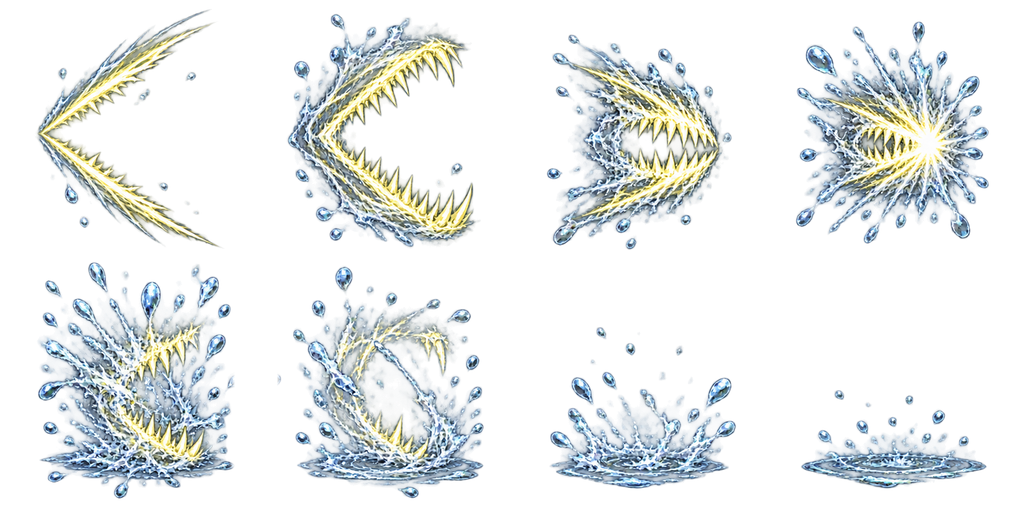
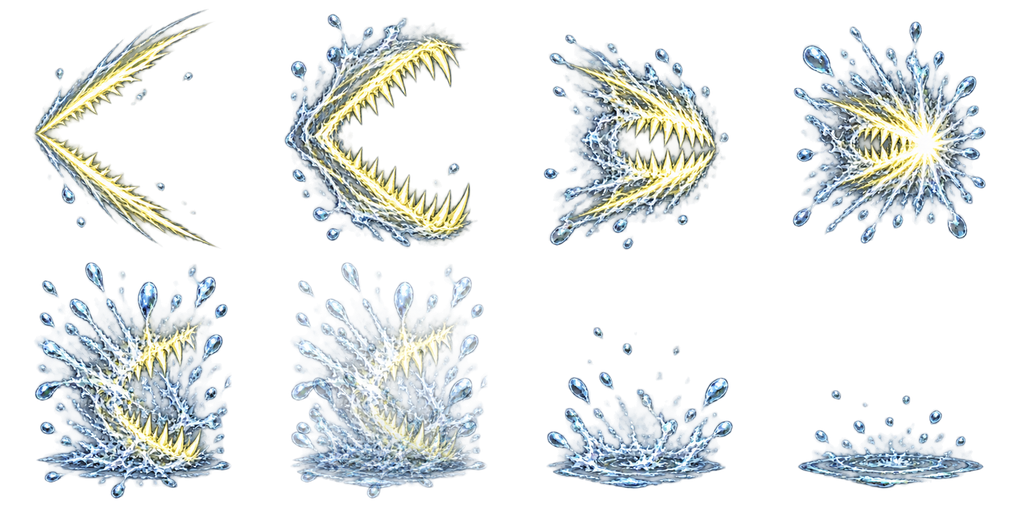
Harita 2 efekt düzeltmeleri: Lament dalgası uçar, Slinger fırlatır, Burrow gömülür, Eel Bite akışı
- Siren Lament: halka dalgası Siren'den hedefe uçar (arkasında sönen iki iz), sonra hedefte çarpar.
- Corsair Slinger Pitch Pot / Sling Stone: geri kaykılıp ileri savurma hareketi; çömlek yüksek yayla,
  taş alçak yayla hedefe uçar, yola göre döner; çömlek zemine inince yangın oynar (beyaz daire yok).
- Salt Crab Burrow: kum patlamasının doruğunda yengeç yarı yarıya kuma gömülür (aşağı kayma + kırpma,
  ayakta kum yığını), Fortified sürdükçe gömülü kalır, durum bitince çıkar.
- Weir Eel Bite: ters dönen 6. kare (çene şekli) kaynakta 5. ve 7. karenin karışımıyla yeniden kuruldu.
- Yeni ayarlar data/battle-layout.json > animation.mobVfx (fly, arc, flyArt, grow, echo, throw, bury);
  Harita 1 efektlerine dokunulmadı.

diff --git a/src/game/mob-vfx.ts b/src/game/mob-vfx.ts
@@ -217,6 +217,21 @@ export interface MobTune {
   single?: boolean;
   stretch?: number;
   originX?: number;
+  /**
+   * bolt: UÇAN MERMİ (Harita 2, Ömer 2026-10-25): sheet'in `flyFrame` karesi saldırandan hedefe `fly` ms'de uçar (`arc` px yay; `flyArt`: karedeki
+   * mermi eğimi, derece, uçuşta yolun teğetine döner; `grow`: başlangıç ölçeği, varışta 1; `echo`: arkasında sönen kopya sayısı = dalga izi),
+   * varınca sheet hedefte `flyFrom` karesinden oynar. `throw`: hazırlık halkası yerine fırlatma hareketi (geri kaykıl + ileri savur).
+   */
+  fly?: number;
+  flyFrame?: number;
+  flyFrom?: number;
+  arc?: number;
+  flyArt?: number;
+  grow?: number;
+  echo?: number;
+  throw?: boolean;
+  /** Burrow: Fortified görünürken birim bu oranda zemine gömülü durur (sprite aşağı kayar, alt kısmı kırpılır; buryDepth + BattleScene.refreshBadges). */
+  bury?: number;
 }
 const TUNE = layout.animation.mobVfx as unknown as { sizeMult?: number; speedMult?: number; stabilize: { minMass: number; maxShift: number }; skills: Record<string, MobTune> };
 const BOOST_ALPHA = 0.35; // ikinci ADD kopyanın şeffaflığı (soluk sanatı parlatır; açık zeminde yıkamaz)
@@ -235,6 +250,7 @@ const TRAIL_SIZE = 300; // iz sheet'inin ekran boyu (px)
 const TRAIL_ORIGIN: [number, number] = [0.84, 0.5]; // iz sheet'inin başı (alev ucu) sağda: aynalanınca saldıranın önünde
 const CAST_PEAK_MS = 130; // büyü ucunun okunduğu an (windUp'ın tepe noktası; bu anda cast pozu oturmuş)
 const FAST_RAIN_X = 0.55; // yağan okun yatay eğimi (dikey px başına)
+const BURY_HOLD_MS = 1500; // gömülen birim durum rozeti görünmeden en az bu kadar gömülü kalır (ms, k.slow ile)
 
 /**
  * Zemin eğimi (ekranda yatay / dikey px): hedef tahtanın yuva ızgarasında bir sıra aşağı inince x ne kadar kayar (data/battle-layout.json yuvaları).
@@ -348,8 +364,10 @@ function build(skillId: string, s0: MobVfxSpec): V2Vfx {
     const off: Pt = { x: tune.dx ?? 0, y: tune.dy ?? 0 };
     const travelF = Math.round((tune.travel ?? 0) * mult);
     const lag = tune.lag ?? 0;
-    const fall = tune.fall ?? 0;
-    const startF = fall ? 1 : 0; // yağan efektte çarpma sheet'i uçuş karesinden sonrasını oynar
+    const flyMs = s.mode === 'bolt' && tune.fly ? tune.fly : 0;
+    // `fall`: zamanlamadaki uçuş payı (yağan ok ya da uçan mermi; ikisi aynı skill'de olmaz)
+    const fall = tune.fall ?? flyMs;
+    const startF = flyMs ? Math.round((tune.flyFrom ?? 1) * mult) : fall ? 1 : 0; // uçuştan sonra çarpma sheet'i bu kareden oynar
     const hitT = impactMs(impactF - startF, fps); // sheet başlangıcından vuruş karesine (ms, yavaşlatılmadan)
     // kare hizalama: vuruş sonrası kareler vuruş karesinin yerine oturur; uçuş kareleri ağırlık merkezinden vuruş noktasına (yolu sprite yapar)
     const alignMode = tune.align ?? (s.at === 'ground' ? 'base' : 'core');
@@ -408,7 +426,10 @@ function build(skillId: string, s0: MobVfxSpec): V2Vfx {
         return [main, glow].filter((x): x is NonNullable<typeof x> => !!x);
       };
       let objs: Array<NonNullable<ReturnType<VfxKit['sheet']>>>;
-      if (from && fall) {
+      if (from && flyMs) {
+        flyShot(from, p, delay + lag);
+        objs = pair({ delay: delay + lag + flyMs, from: startF }, p);
+      } else if (from && fall) {
         // yağan efekt (Scatter Quarrels): uçuş karesi (0) yukarıdan hücreye iner, sonra çarpma kareleri o hücrede oynar
         const fl = pair({ frame: 0, keep: true, delay: delay + lag }, from);
         c.scene.tweens.add({ targets: fl, x: p.x, y: p.y, delay: k.slow(delay + lag), duration: k.slow(fall), ease: 'Quad.easeIn', onComplete: () => fl.forEach((o) => o.destroy()) });
@@ -435,6 +456,77 @@ function build(skillId: string, s0: MobVfxSpec): V2Vfx {
         flashAt(p, depth);
         c.scene.time.delayedCall(k.slow(HOLD_MS), () => {
           for (const o of objs) if (o?.active) o.anims.resume();
+        });
+      });
+    };
+    /**
+     * UÇAN MERMİ (tune.fly): `flyFrame` karesi (ağırlık merkezinden tutulur) saldırandan hedefe yay çizerek uçar, teğete döner; `echo` kopyası
+     * aynı yolda biraz geriden, sönük gelir (dalga izi). Varınca silinir: çarpma kareleri o anda hedefte başlar (play).
+     */
+    function flyShot(from: Pt, to: Pt, delay: number): void {
+      const fr = Math.round((tune.flyFrame ?? 0) * mult);
+      const an = k.sheetAnchors(c.scene, id, fr);
+      const o: [number, number] | undefined = an ? [an.core[0] / fw, an.core[1] / fh] : undefined;
+      const echoes = tune.echo ?? 0;
+      const opts = { size, flipX: flip, frame: fr, keep: true, delay, ...(o ? { origin: o } : {}) };
+      const parts: Array<{ spr: Phaser.GameObjects.Sprite; lagU: number; alpha: number }> = [];
+      for (let i = echoes; i >= 0; i--) {
+        const alpha = i ? 0.5 / i : 1;
+        const main = k.sheet(c.scene, id, from.x, from.y, { ...opts, depth: k.DEPTH + 1 - i * 0.01, alpha });
+        const glow = k.sheet(c.scene, id, from.x, from.y, { ...opts, depth: k.DEPTH + 2 - i * 0.01, alpha: BOOST_ALPHA * alpha, blend: ADD_BLEND });
+        for (const spr of [main, glow]) if (spr) parts.push({ spr, lagU: i * 0.14, alpha: spr.alpha });
+      }
+      if (!parts.length) return;
+      const arc = tune.arc ?? 0;
+      const g0 = tune.grow ?? 1;
+      const sx0 = parts[0]!.spr.scaleX;
+      const sy0 = parts[0]!.spr.scaleY;
+      const place = (u0: number): void => {
+        for (const q of parts) {
+          if (!q.spr.active) continue;
+          const u = u0 - q.lagU;
+          q.spr.setAlpha(u <= 0 ? 0 : q.alpha);
+          const v = Math.max(0, u);
+          const x = from.x + (to.x - from.x) * v;
+          const y = from.y + (to.y - from.y) * v - arc * 4 * v * (1 - v);
+          const g = g0 + (1 - g0) * v;
+          q.spr.setPosition(x, y).setScale(sx0 * g, sy0 * g);
+          if (tune.flyArt !== undefined) q.spr.setRotation(flightRotation({ x: 0, y: 0 }, { x: to.x - from.x, y: to.y - from.y - arc * 4 * (1 - 2 * v) }, tune.flyArt, flip));
+        }
+      };
+      place(0);
+      c.scene.tweens.addCounter({
+        from: 0,
+        to: 1,
+        delay: k.slow(delay),
+        duration: k.slow(flyMs),
+        onUpdate: (tw) => place(tw.getValue() ?? 0),
+        onComplete: () => parts.forEach((q) => q.spr.active && q.spr.destroy()),
+      });
+    }
+    /** Fırlatma hareketi (tek görselli mob: poz yok): geri kaykılır, ileri savurur (bırakış anında çözülür), sonra doğrulur. */
+    const throwMotion = (): Promise<void> => {
+      const spr = c.actor.sprite;
+      c.actor.play('attack');
+      return new Promise<void>((resolve) => {
+        c.scene.tweens.add({
+          targets: spr,
+          angle: -fwd * 11,
+          x: -fwd * 10,
+          duration: k.slow(170),
+          ease: 'Quad.easeOut',
+          onComplete: () =>
+            c.scene.tweens.add({
+              targets: spr,
+              angle: fwd * 9,
+              x: fwd * 14,
+              duration: k.slow(90),
+              ease: 'Quad.easeIn',
+              onComplete: () => {
+                resolve();
+                c.scene.tweens.add({ targets: spr, angle: 0, x: 0, duration: k.slow(200), ease: 'Sine.easeOut', onComplete: () => c.actor.play('idle') });
+              },
+            }),
         });
       });
     };
@@ -483,13 +575,19 @@ function build(skillId: string, s0: MobVfxSpec): V2Vfx {
       c.scene.time.delayedCall(k.slow(lag + hitT), () => k.shake(c.scene, SHAKE_MS, SHAKE_MAG));
       return land();
     }
-    await c.windUp(s.hex ?? c.skill.fx ?? '#ffffff', tune.anim ?? 'cast');
+    if (tune.throw) await throwMotion();
+    else await c.windUp(s.hex ?? c.skill.fx ?? '#ffffff', tune.anim ?? 'cast');
     if (s.mode === 'bolt' || s.mode === 'ally') {
       for (const v of c.targets) play(pos(v), 0, v.container.depth, s.mode === 'bolt' ? src() : undefined);
       return land();
     }
     if (s.mode === 'self') {
       play(k.feet(c.actor), 0, c.actor.container.depth);
+      // gömülme (Burrow): kum patlamasının vuruşunda batar; sonra Fortified rozeti görünür kaldıkça gömülü durur (BattleScene.refreshBadges)
+      if (tune.bury) {
+        const actor = c.actor;
+        c.scene.time.delayedCall(k.slow(lag + Math.max(0, hitT - 40)), () => actor.setBuried(tune.bury!, BURY_HOLD_MS));
+      }
       return land();
     }
     const cells = c.cells.length ? c.cells : c.targets.map((v) => k.feet(v));
@@ -581,6 +679,18 @@ function build(skillId: string, s0: MobVfxSpec): V2Vfx {
       });
     }
   };
+}
+
+/**
+ * Gömülme (tune.bury, Burrow): birimin skill'lerinden biri gömülen türdense ve ekranda `status` durumu görünüyorsa sprite'ın gömülü oranı, değilse 0.
+ * BattleScene her karede uygular (durum rozetleriyle aynı an: skill'in kum patlamasının vuruşunda batar, Fortified bitince çıkar).
+ */
+export function buryDepth(skillIds: readonly string[], shownStatuses: readonly string[]): number {
+  for (const id of skillIds) {
+    const b = TUNE.skills[id]?.bury;
+    if (b && shownStatuses.includes('fortify')) return b;
+  }
+  return 0;
 }
 
 /** skill id -> efekt (sheet dosyası olmayan skill burada yok: ödünç efektini oynar). */

diff --git a/src/game/combatant-view.ts b/src/game/combatant-view.ts
@@ -773,6 +773,109 @@ export class CombatantView {
    */
   private vineWrap: { back: Phaser.GameObjects.Graphics; front: Phaser.GameObjects.Graphics } | null = null;
 
+  /**
+   * GÖMÜLME (Salt Crab Burrow, Ömer 2026-10-25): sprite `frac` oranında zemine batar; zeminin altı kırpılır (setCrop, maske yok), ayakta küçük kum
+   * yığını belirir. 0 = çıkar. BattleScene her karede durumdan (src/game/mob-vfx.ts > buryDepth) çağırır: aynı değerde etkisiz.
+   */
+  private bury = { v: 0, target: 0 };
+  private buryTween?: Phaser.Tweens.Tween;
+  private buryMound?: Phaser.GameObjects.Graphics;
+
+  private buryHoldUntil = 0;
+
+  /** Efekt gömdükten sonra bu süre durum beklenmeden gömülü kalır (durum rozeti olay kuyruğunda biraz geç görünür; test panelinde hiç görünmez). */
+  get buryHeld(): boolean {
+    return this.scene.time.now < this.buryHoldUntil;
+  }
+
+  setBuried(frac: number, holdMs = 0): void {
+    if (holdMs > 0) this.buryHoldUntil = this.scene.time.now + slow(holdMs);
+    if (frac === this.bury.target) return;
+    this.bury.target = frac;
+    this.buryTween?.stop();
+    const down = frac > this.bury.v;
+    if (down && !this.buryMound) {
+      const g = this.scene.add.graphics();
+      const w = this.w * 0.62;
+      g.fillStyle(0x6b5434, 1).fillEllipse(0, 2, w + 8, 30);
+      g.fillStyle(0xb59a6a, 1).fillEllipse(0, 0, w, 24);
+      g.fillStyle(0xd8c393, 1).fillEllipse(-w * 0.12, -5, w * 0.55, 9);
+      g.setScale(0.2, 0.2).setAlpha(0);
+      this.container.addAt(g, this.container.getIndex(this.sprite) + 1);
+      this.buryMound = g;
+    }
+    const mound = this.buryMound;
+    if (mound) {
+      this.scene.tweens.killTweensOf(mound);
+      this.scene.tweens.add({
+        targets: mound,
+        scaleX: down ? 1 : 0.2,
+        scaleY: down ? 1 : 0.2,
+        alpha: down ? 1 : 0,
+        duration: slow(down ? 260 : 320),
+        ease: down ? 'Back.easeOut' : 'Quad.easeIn',
+        onComplete: () => {
+          if (!down && this.buryMound === mound) {
+            mound.destroy();
+            this.buryMound = undefined;
+          }
+        },
+      });
+    }
+    this.buryTween = this.scene.tweens.add({
+      targets: this.bury,
+      v: frac,
+      duration: slow(down ? 300 : 380),
+      ease: down ? 'Quad.easeIn' : 'Back.easeOut',
+      onUpdate: () => this.applyBury(),
+      onComplete: () => this.applyBury(),
+    });
+  }
+
+  private buryTop: { key: string; top: number } | null = null;
+
+  /** Sprite karesinde ilk opak satır (kare pikseli; önbellekli). Okunamazsa 0. */
+  private contentTop(): number {
+    const fr = this.sprite.frame;
+    const key = `${this.sprite.texture.key}#${fr.name}`;
+    if (this.buryTop?.key === key) return this.buryTop.top;
+    let top = 0;
+    try {
+      const cv = document.createElement('canvas');
+      cv.width = fr.cutWidth;
+      cv.height = fr.cutHeight;
+      const cx = cv.getContext('2d', { willReadFrequently: true });
+      if (cx) {
+        cx.drawImage(fr.source.image as CanvasImageSource, fr.cutX, fr.cutY, fr.cutWidth, fr.cutHeight, 0, 0, fr.cutWidth, fr.cutHeight);
+        const px = cx.getImageData(0, 0, fr.cutWidth, fr.cutHeight).data;
+        outer: for (let y = 0; y < fr.cutHeight; y++)
+          for (let x = 0; x < fr.cutWidth; x += 2)
+            if (px[(y * fr.cutWidth + x) * 4 + 3]! > 24) {
+              top = y;
+              break outer;
+            }
+      }
+    } catch {
+      top = 0;
+    }
+    this.buryTop = { key, top };
+    return top;
+  }
+
+  private applyBury(): void {
+    const v = Math.max(0, this.bury.v);
+    if (v <= 0.001) {
+      this.sprite.setY(0);
+      this.sprite.setCrop();
+      return;
+    }
+    const fh = this.sprite.frame.height;
+    // oran görünür gövdeye göre (karenin üstündeki saydam pay hariç: yengeç karenin alt yarısında)
+    const cut = (fh - this.contentTop()) * v;
+    this.sprite.setY(cut * Math.abs(this.sprite.scaleY));
+    this.sprite.setCrop(0, 0, this.sprite.frame.width, Math.max(1, fh - cut));
+  }
+
   setVineWrap(on: boolean): void {
     if (on === !!this.vineWrap) return;
     if (!on) {

diff --git a/src/game/scenes/BattleScene.ts b/src/game/scenes/BattleScene.ts
@@ -1,3 +1,4 @@
+import { buryDepth } from '../mob-vfx';
 import { rightClickAction, setPhaserRightClick } from '../../ui/right-click';
 import Phaser from 'phaser';
 import { elapsedTicks, startCounter, waitMs, type CounterSnap } from '../turn-wait';
@@ -606,6 +607,9 @@ export class BattleScene extends Phaser.Scene {
       if (!c || c.hp <= 0) continue;
       const list: BadgeList = [];
       let seals: { stacks: number; max: number; turns: number; color: string } | null = null;
+      // Burrow (tune.bury): Fortified görünürken birim zemine gömülü durur (durum rozetiyle aynı an batar / çıkar)
+      const buried = buryDepth(c.skills, this.statusesShown(c).map((st) => st.kind));
+      if (buried > 0 || !view.buryHeld) view.setBuried(buried);
       for (const st of this.statusesShown(c)) {
         const def = content.statuses[st.kind];
         const fallback = { taunt: ['finger', '#ff9f43'], guard: ['guardian', '#6ec1ff'], regen: ['leaf', '#7dff9b'] }[st.kind as 'taunt' | 'guard' | 'regen'] ?? ['roar', '#ffffff'];
